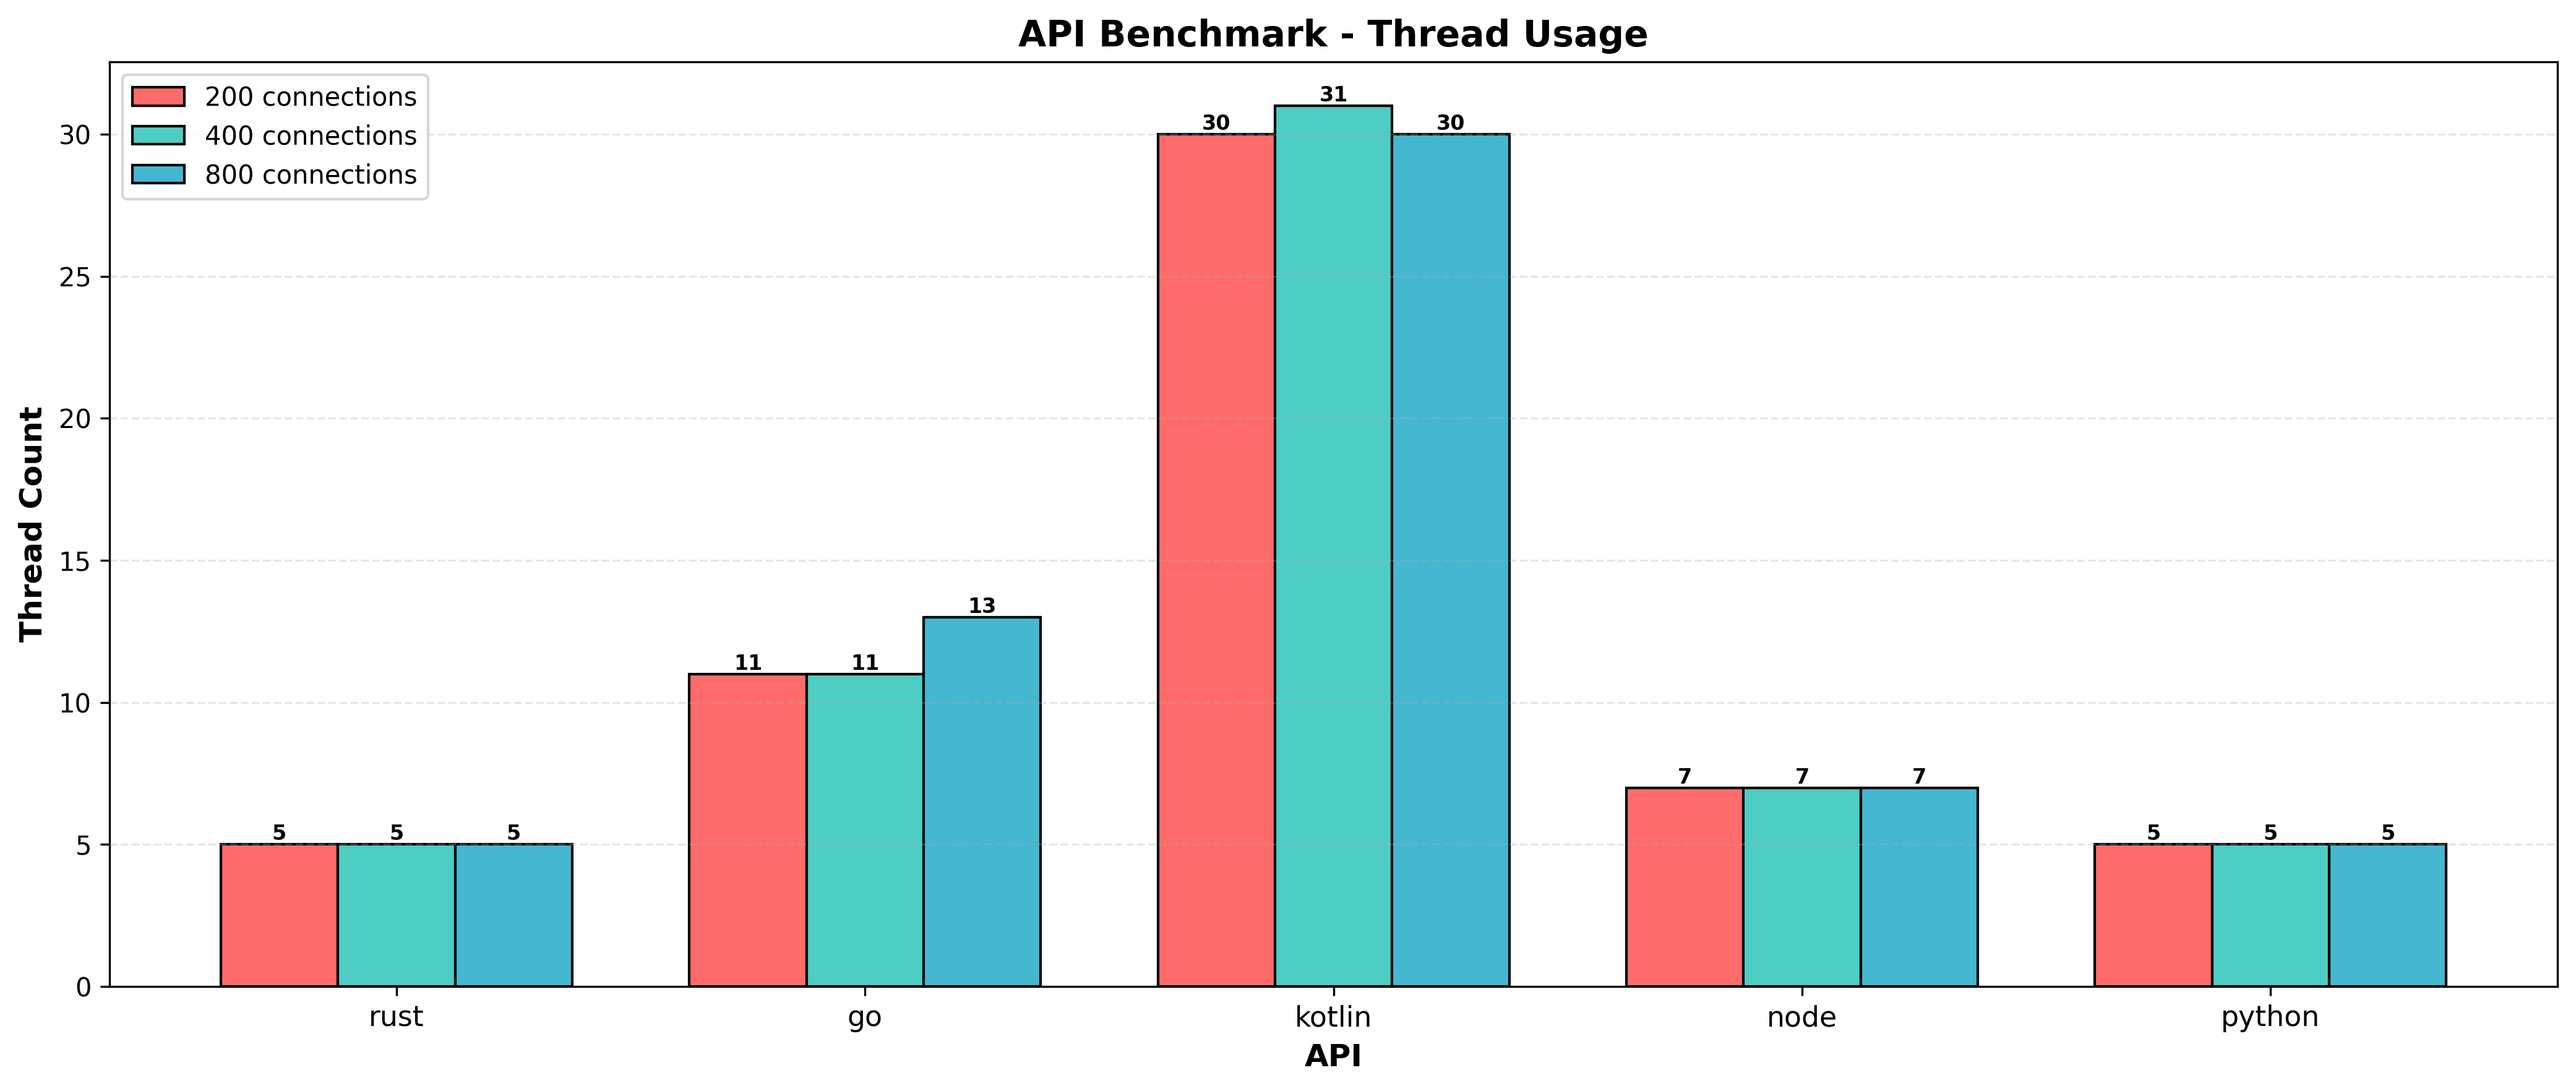
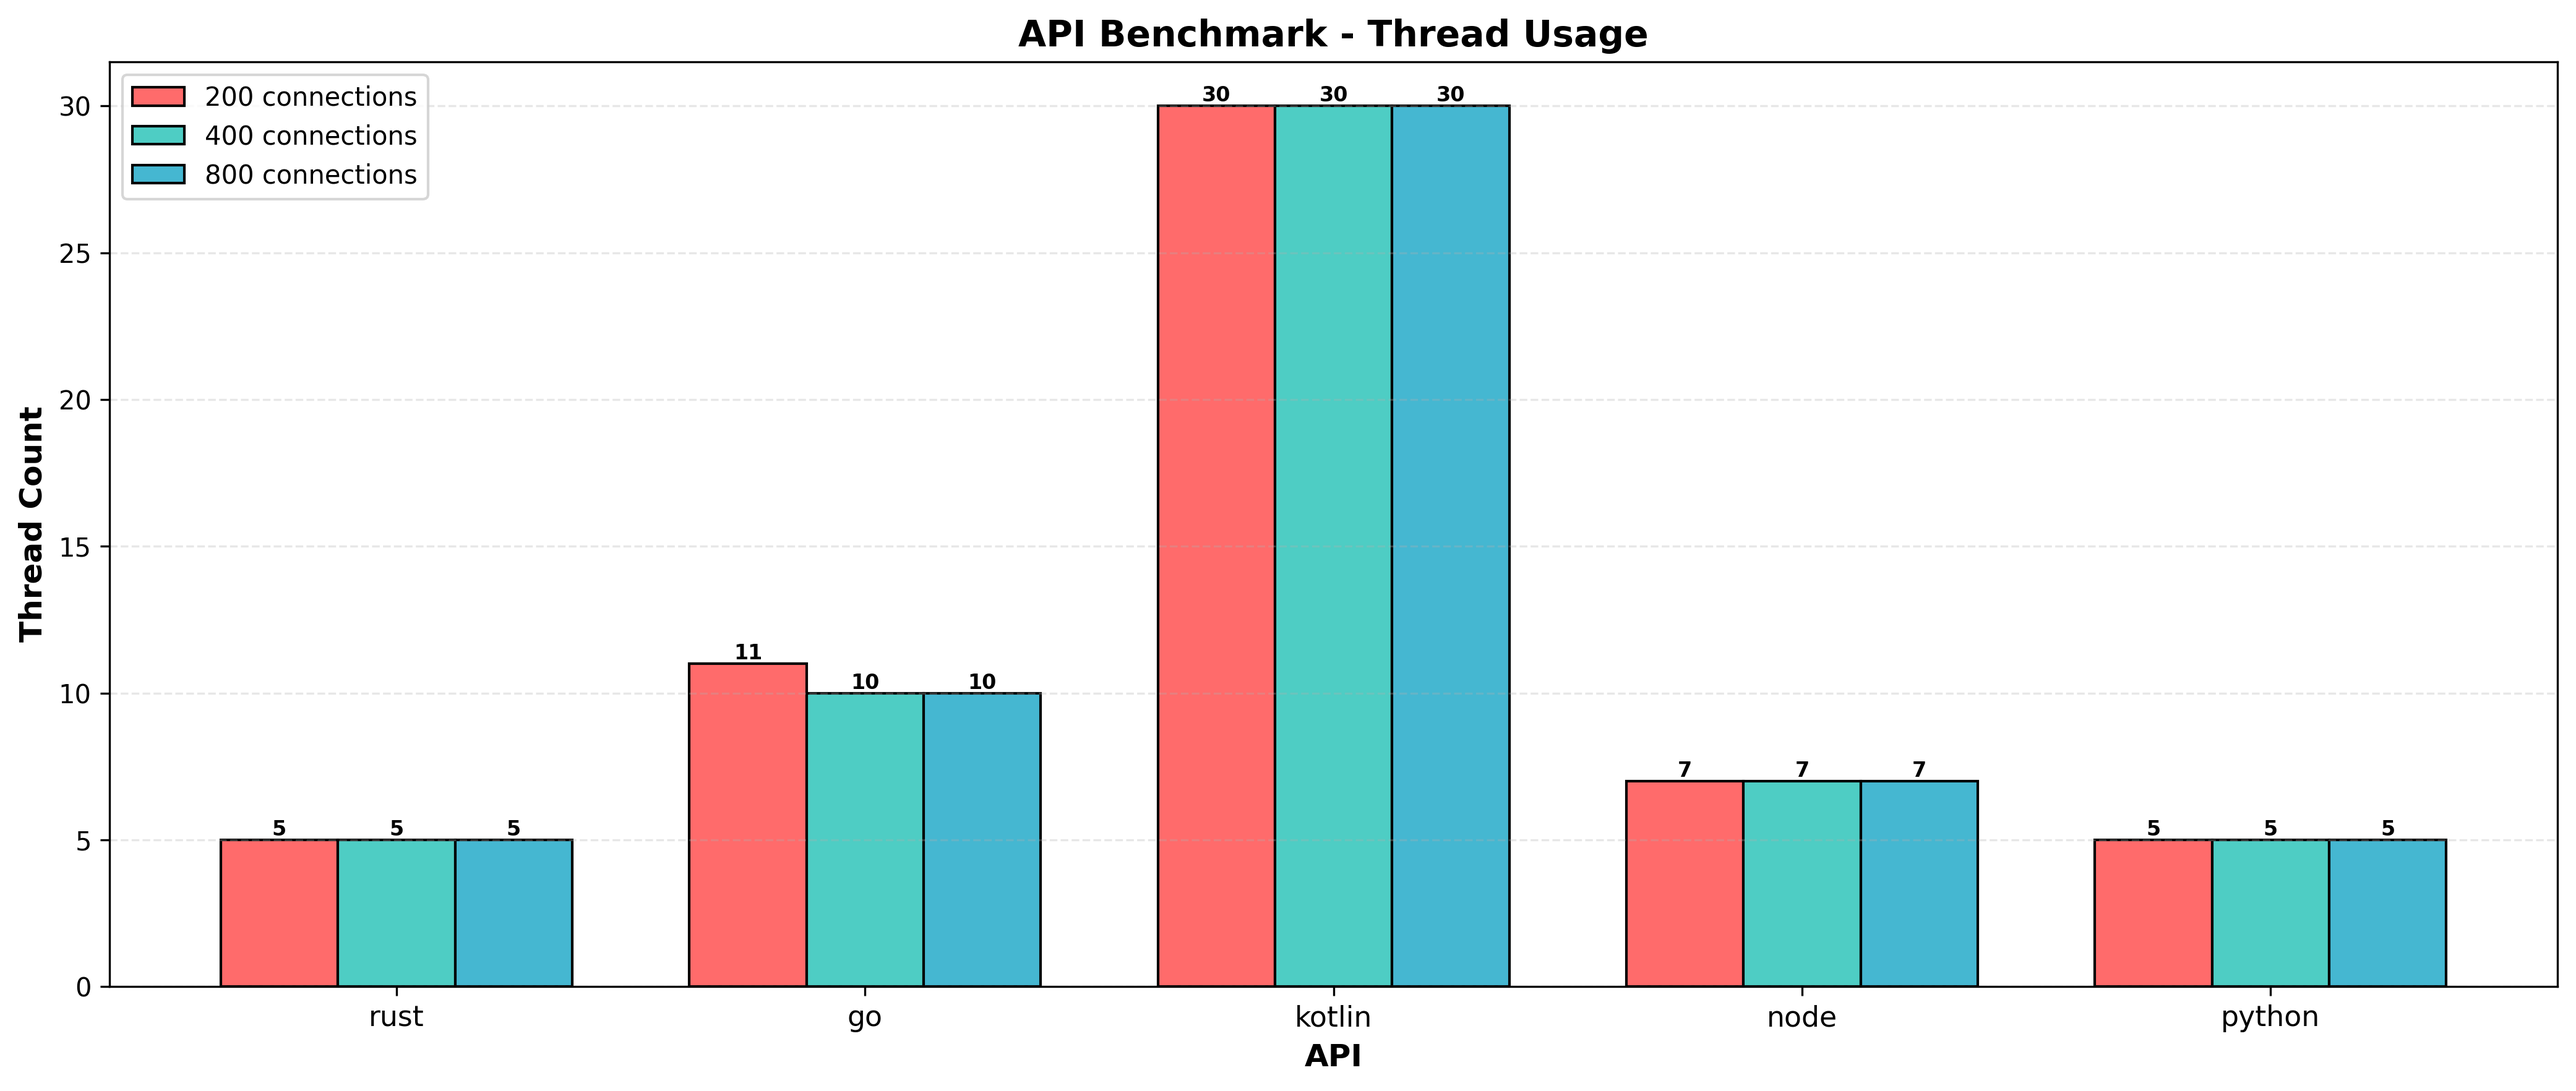
results from github actions autocommit

diff --git a/results/raw.md b/results/raw.md
@@ -1,6 +1,6 @@
 # Results
 ## Timestamp
-Fri Feb 6 11:12:38 UTC 2026
+Sat Feb 7 10:29:52 UTC 2026
 ## Hardware Info
 | CPU Model | Num CPUs | Memory |
 | --------- | -------- | ------ |
@@ -9,18 +9,18 @@ Fri Feb 6 11:12:38 UTC 2026
 ## Benchmarks of 1 Million Requests
 | Test Name | HTTP Conns | Success Rate | Test Seconds | Requests per Second | P50 Millis | P99 Millis | P99.9 Millis | API Memory MB | API CPU Time | API Threads | API Processes |
 | --------- | ---------- | ------------ | ------------ | ------------------- | ---------- | ---------- | ------------ | ------------- | ------------ | ----------- | ------------- |
-| rust | 200 | 100.0% | 8.8 | 112907.8 | 1.6508 | 4.4734 | 5.9277 | 8.4 | 00:00:17 | 5 | 1 |
-| rust | 400 | 100.0% | 8.9 | 112099.1 | 3.3289 | 7.9177 | 10.8054 | 13.1 | 00:00:17 | 5 | 1 |
-| rust | 800 | 100.0% | 8.8 | 113898.3 | 6.9009 | 11.1278 | 18.8958 | 22.1 | 00:00:17 | 5 | 1 |
-| go | 200 | 100.0% | 11.7 | 85022.2 | 1.8455 | 7.4378 | 10.1106 | 17.7 | 00:00:27 | 11 | 1 |
-| go | 400 | 100.0% | 11.2 | 88985.3 | 3.8270 | 13.0176 | 18.3539 | 24.3 | 00:00:26 | 11 | 1 |
-| go | 800 | 100.0% | 11.5 | 86649.9 | 8.2331 | 26.0117 | 40.2092 | 37.6 | 00:00:27 | 13 | 1 |
-| kotlin | 200 | 100.0% | 14.2 | 70177.6 | 1.9929 | 11.7155 | 32.9347 | 502.5 | 00:00:38 | 30 | 1 |
-| kotlin | 400 | 100.0% | 14.7 | 67758.5 | 4.9734 | 23.0711 | 49.9861 | 524.9 | 00:00:41 | 31 | 1 |
-| kotlin | 800 | 100.0% | 14.5 | 68874.7 | 9.2117 | 31.5711 | 64.9291 | 536.9 | 00:00:39 | 30 | 1 |
-| node | 200 | 100.0% | 34.4 | 29031.2 | 5.8622 | 10.5036 | 13.9084 | 107.7 | 00:00:34 | 7 | 1 |
-| node | 400 | 100.0% | 34.0 | 29352.7 | 11.6929 | 18.7893 | 22.5559 | 140.0 | 00:00:34 | 7 | 1 |
-| node | 800 | 100.0% | 37.5 | 26662.7 | 25.0992 | 42.8069 | 48.5628 | 148.4 | 00:00:38 | 7 | 1 |
-| python | 200 | 100.0% | 100.4 | 10088.2 | 20.3514 | 34.1267 | 38.8774 | 134.2 | 00:06:00 | 5 | 5 |
-| python | 400 | 100.0% | 101.4 | 9794.4 | 33.4507 | 70.5337 | 80.8555 | 135.5 | 00:06:07 | 5 | 5 |
-| python | 800 | 100.0% | 104.3 | 9581.6 | 77.9717 | 129.9384 | 149.6467 | 142.0 | 00:06:17 | 5 | 5 |
+| rust | 200 | 100.0% | 9.0 | 110875.9 | 1.6590 | 4.6014 | 6.0187 | 8.6 | 00:00:17 | 5 | 1 |
+| rust | 400 | 100.0% | 8.5 | 116964.1 | 3.2110 | 7.2531 | 10.0814 | 13.0 | 00:00:16 | 5 | 1 |
+| rust | 800 | 100.0% | 8.8 | 113756.3 | 6.8626 | 11.5550 | 17.0515 | 22.1 | 00:00:17 | 5 | 1 |
+| go | 200 | 100.0% | 11.9 | 84033.9 | 1.8475 | 7.5075 | 10.5711 | 18.1 | 00:00:28 | 11 | 1 |
+| go | 400 | 100.0% | 11.4 | 87228.9 | 3.9019 | 13.6746 | 18.9945 | 24.2 | 00:00:27 | 10 | 1 |
+| go | 800 | 100.0% | 11.6 | 86256.1 | 8.3027 | 25.7922 | 38.7874 | 37.3 | 00:00:27 | 10 | 1 |
+| kotlin | 200 | 100.0% | 14.2 | 70514.0 | 1.9455 | 11.4297 | 37.4007 | 510.0 | 00:00:38 | 30 | 1 |
+| kotlin | 400 | 100.0% | 15.1 | 65958.9 | 5.1023 | 22.3747 | 65.6127 | 525.5 | 00:00:42 | 30 | 1 |
+| kotlin | 800 | 100.0% | 15.6 | 63870.7 | 10.3788 | 43.6988 | 91.9049 | 627.8 | 00:00:43 | 30 | 1 |
+| node | 200 | 100.0% | 35.2 | 28360.2 | 5.7863 | 9.9663 | 15.2840 | 103.3 | 00:00:35 | 7 | 1 |
+| node | 400 | 100.0% | 33.3 | 30001.2 | 11.4337 | 19.1934 | 24.7874 | 139.3 | 00:00:33 | 7 | 1 |
+| node | 800 | 100.0% | 37.7 | 26520.3 | 25.3032 | 42.6443 | 57.9188 | 150.3 | 00:00:38 | 7 | 1 |
+| python | 200 | 100.0% | 101.0 | 9980.6 | 16.5066 | 43.5000 | 51.5797 | 134.1 | 00:06:03 | 5 | 5 |
+| python | 400 | 100.0% | 101.9 | 9773.6 | 39.7592 | 65.6459 | 73.0329 | 136.0 | 00:06:07 | 5 | 5 |
+| python | 800 | 100.0% | 102.9 | 9748.7 | 85.3051 | 115.7657 | 132.8328 | 145.3 | 00:06:11 | 5 | 5 |

diff --git a/results/latest.md b/results/latest.md
@@ -1,6 +1,6 @@
 # Latest Results
 
-Timestamp: `Fri Feb 6 11:12:38 UTC 2026`
+Timestamp: `Sat Feb 7 10:29:52 UTC 2026`
 
 ## Requests Per Second
 ![Requests Per Second](rps.png)
